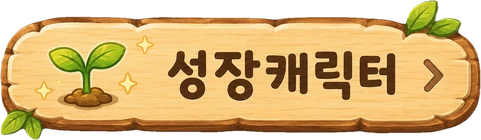
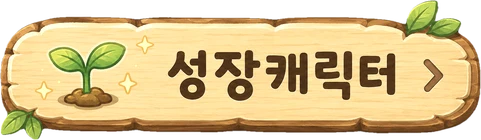
팻말 버튼 톤 보정: 채도 -17%·명도 +7%·주황기 제거 (크림베이지 원목 톤)
- webp 생성 시 modulate(brightness 1.07, saturation 0.83, hue +5°)로 톤을 원화에 직접 굽기
- CSS saturate 필터 제거(중복 방지), 드롭섀도 색도 웜브라운(#9B724A 계열)으로
- 배경 꾸미기 장착 시 크림 캡슐 버튼도 같은 팔레트로 통일 (#F0E6CC / #B88957 / #4E392A)

Claude-Session: https://claude.ai/code/session_018maNuYqDfFyRSe9uKpZhPR

diff --git a/src/App.jsx b/src/App.jsx
@@ -3721,12 +3721,12 @@ export default function App() {
                       {getCharMode(childId)===CHAR_DISPLAY_AVATAR?"🌱 성장 보기":"🎒 내 아바타"}
                     </button>
                     ):stageBgDeco?(
-                    /* 배경 꾸미기 장착 시: 나무 팻말 그림이 밤 톤 배경과 안 어울림 → 기존 크림 캡슐 버튼 유지 */
+                    /* 배경 꾸미기 장착 시: 나무 팻말 그림이 밤 톤 배경과 안 어울림 → 기존 크림 캡슐 버튼 유지 (팻말과 같은 크림베이지 팔레트) */
                     <button onClick={toggleCharDisplayMode} className="jelly-tap"
                       style={{display:"flex",alignItems:"center",gap:6,cursor:"pointer",
-                        background:"#F2EED9",border:"1.5px solid #B39A6A",borderRadius:999,padding:"11px 17px",
-                        color:"#4E3B2A",fontSize:14,fontWeight:900,whiteSpace:"nowrap",
-                        boxShadow:"0 3px 6px rgba(93,70,51,0.28)"}}>
+                        background:"#F0E6CC",border:"1.5px solid #B88957",borderRadius:999,padding:"11px 17px",
+                        color:"#4E392A",fontSize:14,fontWeight:900,whiteSpace:"nowrap",
+                        boxShadow:"0 3px 6px rgba(155,114,74,0.30)"}}>
                       {getCharMode(childId)===CHAR_DISPLAY_AVATAR?"🌱 성장 보기":"🎒 내 아바타"}
                       <span style={{opacity:0.5,fontWeight:900,fontSize:15,lineHeight:1,marginLeft:1}}>›</span>
                     </button>
@@ -3736,7 +3736,7 @@ export default function App() {
                       <img
                         src={getCharMode(childId)===CHAR_DISPLAY_AVATAR?"assets/btn-growth-character.webp":"assets/btn-my-avatar.webp"}
                         alt={getCharMode(childId)===CHAR_DISPLAY_AVATAR?"성장캐릭터 보기":"내 아바타 보기"}
-                        style={{width:130,height:"auto",display:"block",filter:"saturate(0.85) drop-shadow(0 3px 6px rgba(93,70,51,0.35))"}}/>
+                        style={{width:130,height:"auto",display:"block",filter:"drop-shadow(0 3px 6px rgba(155,114,74,0.35))"}}/>
                     </button>
                     )}
                   </div>
